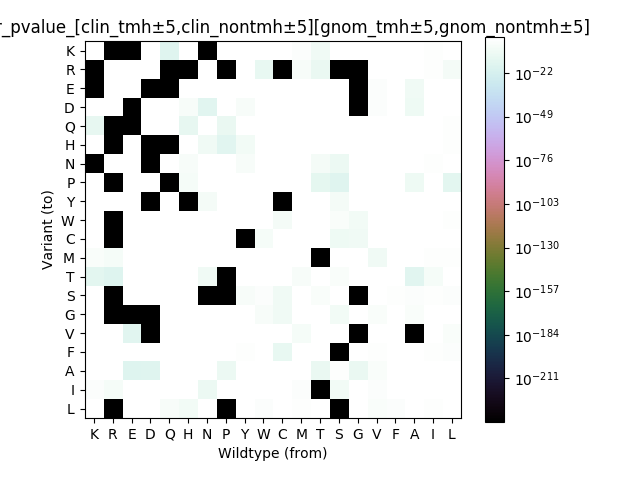
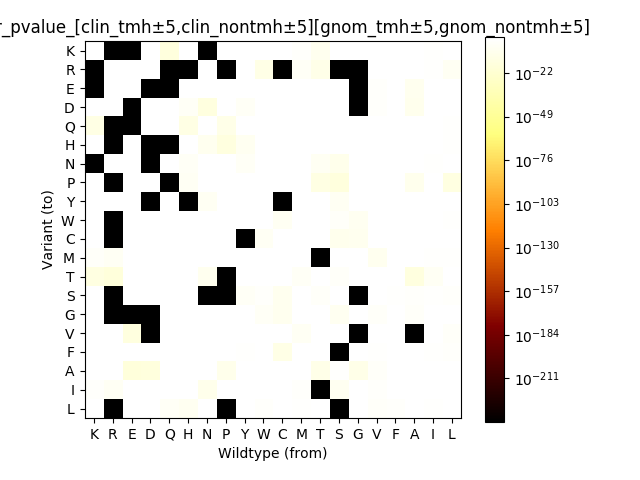
more tweaks to summary output with graphs

diff --git a/scripts/summary.py b/scripts/summary.py
@@ -130,6 +130,7 @@ def heatmap_run():
     "gnomAD" : "n",
     "ClinVar": "d"
     }
+    #Normalise according to residue populations
 
     tmh_datasets= [gnomad_tmh_var_array, clinvar_tmh_disease_var_array]
     for n, dataset in enumerate(tmh_datasets):
@@ -163,6 +164,82 @@ def heatmap_run():
             source="gnomAD"
 
         heatmap(np.array(residue_normalised_count_matrix), f"Residue normalised according to WT residue in non_TMH residue population in {color_dict_list[source]} state", aa_list_baezo_order, color_dict_list[source], None) #needs a better scale
+
+    #Normalise ClinVar acording to gnomAD in TMHs
+    residue_normalised_count_matrix = []
+    for var_aa_num, aa_var in enumerate(aa_list_baezo_order):
+        residue_normalised_list = []
+        for wt_aa_num, aa_wt in enumerate(aa_list_baezo_order):
+
+            #print(dataset[var_aa_num][wt_aa_num], tmh_residue_count_dict[aa_wt])
+            normalised_gnomad_value=gnomad_tmh_var_array[var_aa_num][wt_aa_num]
+
+            if var_aa_num==wt_aa_num:
+                residue_normalised_value = 0
+
+            elif normalised_gnomad_value == 0:
+                residue_normalised_value = clinvar_tmh_disease_var_array[var_aa_num][wt_aa_num]
+
+            else:
+                residue_normalised_value = clinvar_tmh_disease_var_array[var_aa_num][wt_aa_num]/gnomad_tmh_var_array[var_aa_num][wt_aa_num]
+
+
+            residue_normalised_list.append(residue_normalised_value)
+        residue_normalised_count_matrix.append(residue_normalised_list)
+    source="ClinVar"
+    heatmap(np.array(residue_normalised_count_matrix), f"Residue normalised according to ClinVar div gnomAd in TMH residue population in {color_dict_list[source]} state", aa_list_baezo_order, color_dict_list[source], None)
+
+    #Normalise ClinVar acording to gnomAD in non-TMHs
+    residue_normalised_count_matrix = []
+    for var_aa_num, aa_var in enumerate(aa_list_baezo_order):
+        residue_normalised_list = []
+        for wt_aa_num, aa_wt in enumerate(aa_list_baezo_order):
+
+            #print(dataset[var_aa_num][wt_aa_num], tmh_residue_count_dict[aa_wt])
+            normalised_gnomad_value=gnomad_non_tmh_var_array[var_aa_num][wt_aa_num]
+
+            if var_aa_num==wt_aa_num:
+                residue_normalised_value = 0
+
+            elif normalised_gnomad_value == 0:
+                residue_normalised_value = clinvar_non_tmh_disease_var_array[var_aa_num][wt_aa_num]
+
+            else:
+                residue_normalised_value = clinvar_non_tmh_disease_var_array[var_aa_num][wt_aa_num]/gnomad_non_tmh_var_array[var_aa_num][wt_aa_num]
+
+
+            residue_normalised_list.append(residue_normalised_value)
+        residue_normalised_count_matrix.append(residue_normalised_list)
+    source="ClinVar"
+    heatmap(np.array(residue_normalised_count_matrix), f"Residue normalised according to ClinVar div gnomAd in non_TMH residue population in {color_dict_list[source]} state", aa_list_baezo_order, color_dict_list[source], None)
+
+
+    #Normalise ClinVar acording to gnomAD and get a p-value
+    residue_normalised_count_matrix = []
+    for var_aa_num, aa_var in enumerate(aa_list_baezo_order):
+        residue_normalised_list = []
+        for wt_aa_num, aa_wt in enumerate(aa_list_baezo_order):
+
+            #print(dataset[var_aa_num][wt_aa_num], tmh_residue_count_dict[aa_wt])
+            normalised_gnomad_value=gnomad_tmh_var_array[var_aa_num][wt_aa_num]
+
+            if var_aa_num==wt_aa_num:
+                residue_normalised_value = 1 #fake test data
+
+            elif normalised_gnomad_value == 0:
+                residue_normalised_value = 1
+
+            else:
+                stats_oddsratio, stats_pvalue = stats.binom_test(clinvar_tmh_disease_var_array[var_aa_num][wt_aa_num], n=gnomad_tmh_var_array[var_aa_num][wt_aa_num], p=sum(sum(np.array(clinvar_tmh_disease_var_array)))/sum(sum(np.array(gnomad_tmh_var_array))), alternative='two-sided')
+                residue_normalised_value = fisher_pvalue
+            print(residue_normalised_value)
+
+            residue_normalised_list.append(residue_normalised_value)
+
+        residue_normalised_count_matrix.append(residue_normalised_list)
+
+    source="ClinVar"
+    heatmap(np.array(residue_normalised_count_matrix), f"Residue normalised according to ClinVar gnomAdchi sqaure in TMH residue population in {color_dict_list[source]} state", aa_list_baezo_order, color_dict_list[source], LogNorm())
 
 
 def basic_num():

diff --git a/scripts/graphs.py b/scripts/graphs.py
@@ -46,7 +46,7 @@ def heatmap(var_freqs_list, title, aa_list_baezo_order, state, is_it_log):
         "d": "Reds",
         "n": "Greens",
         "a": "Greys",
-        "s": "cubehelix"
+        "s": "afmhot"
     }
 
     fig, ax = plt.subplots()
